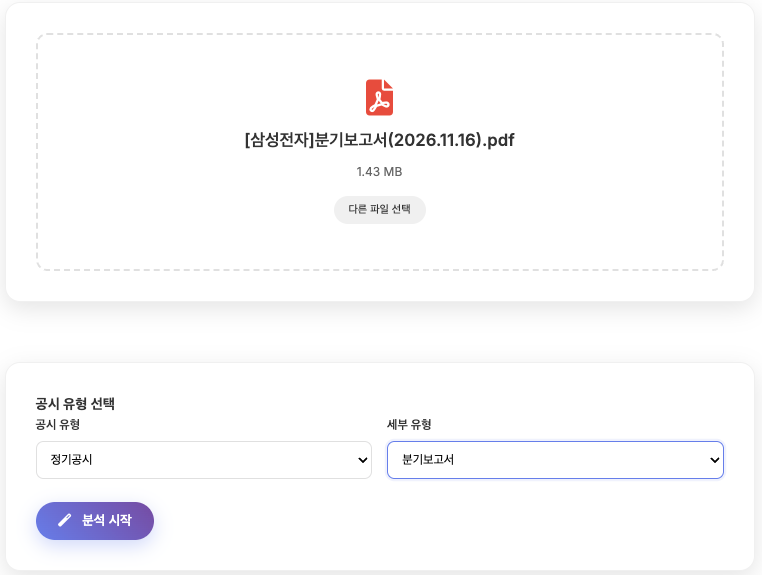
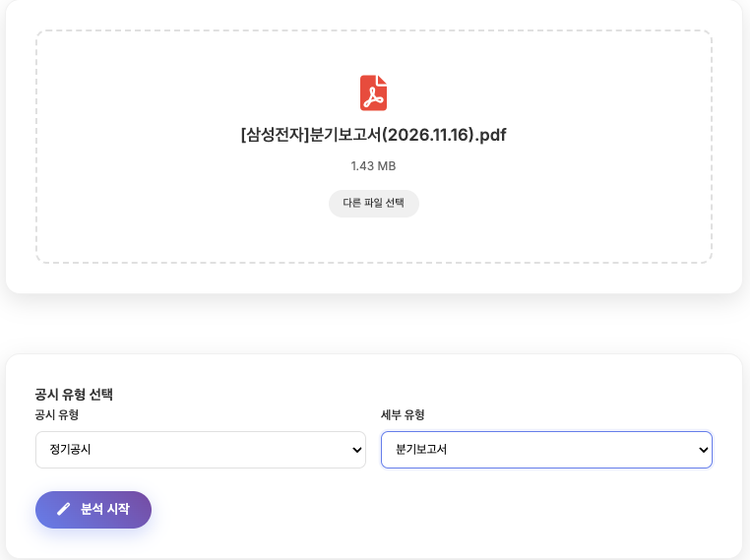
feat: 캐러셀 이미지 통일, 물음표 토글로 접기/펼치기, 모바일 첫 화면 한 번에 들어오게
- 캐러셀 이미지 3장을 750x560으로 동일하게 크롭 (각 장면에서 가장 중요한
  부분이 보이도록: 1번은 그대로, 2번은 로딩 카드가 보이게 아래쪽 기준,
  3번은 제목+표가 보이게 위쪽 기준)
- 캐러셀을 기본적으로 숨기고 "사용법 보기" 물음표 토글 버튼만 노출. 토글을
  누르면 펼쳐지면서 항상 첫 번째 이미지부터 보여주고, 다시 누르면 접힘
- 모바일 첫 화면(헤더+토글+업로드 카드+푸터)이 스크롤 없이 한 화면에 들어오도록
  .container의 강제 min-height(100vh) 제거하고 각 섹션 여백을 추가로 축소.
  iPhone SE(667px)/14(844px)/14 Pro Max(926px) 전부 스크롤 없이 들어맞는 것 확인
- 데스크톱, 분석 결과 화면, 사이드바는 영향 없음 (회귀 확인됨)

diff --git a/public/css/style.css b/public/css/style.css
@@ -695,7 +695,35 @@ body {
 @media (max-width: 768px) {
     .onboarding-carousel-section {
         display: block;
-        margin: 0 0 20px 0;
+        margin: 0 0 8px 0;
+        text-align: center;
+    }
+
+    .onboarding-help-toggle {
+        display: inline-flex;
+        align-items: center;
+        gap: 6px;
+        background: rgba(102, 126, 234, 0.08);
+        color: #667eea;
+        border: 1px solid rgba(102, 126, 234, 0.2);
+        border-radius: 20px;
+        padding: 6px 14px;
+        font-size: 0.8rem;
+        font-weight: 500;
+        cursor: pointer;
+    }
+
+    .onboarding-help-toggle.open {
+        background: rgba(102, 126, 234, 0.14);
+    }
+
+    .onboarding-carousel-wrap {
+        display: none;
+        margin-top: 10px;
+    }
+
+    .onboarding-carousel-wrap.open {
+        display: block;
     }
 
     .onboarding-carousel {
@@ -1879,6 +1907,11 @@ body {
    .footer 자체에도 margin-left: 40%; margin-right: 20%; 가 잘못 걸려 있어서
    모바일 화면에서 푸터 박스가 화면 폭의 40%로 좁아져 글자가 이상하게 끊겨 보였음) */
 @media (max-width: 768px) {
+    .footer {
+        margin-top: 16px;
+        padding: 16px 15px;
+    }
+
     .footer-content {
         gap: 12px;
     }
@@ -1984,14 +2017,14 @@ body {
 
     /* 모바일에서는 섹션 사이 여백을 줄여서 화면이 한눈에 들어오게 한다 */
     .main-header {
-        margin-bottom: 20px;
-        padding: 24px 0 12px 0;
+        margin-bottom: 10px;
+        padding: 16px 0 8px 0;
     }
 
     .header-badge {
         font-size: 0.75rem;
         padding: 5px 12px;
-        margin-bottom: 14px;
+        margin-bottom: 8px;
     }
 
     .main-content {
@@ -2031,12 +2064,12 @@ body {
     }
     
     .upload-card, .disclosure-card, .result-card, .loading-card {
-        padding: 20px 16px;
+        padding: 16px 16px;
     }
 
     /* 업로드 영역을 Claude 입력창처럼 작고 담백하게 */
     .upload-area {
-        padding: 22px 16px;
+        padding: 16px 16px;
         border-width: 2px;
     }
 
@@ -2996,8 +3029,9 @@ body {
         margin-left: 0; /* 모바일에서는 여백 없음 */
         max-width: 100vw;
         padding: 15px;
+        min-height: 0; /* 콘텐츠가 짧아도 화면 높이만큼 억지로 늘어나지 않게 (안 그러면 푸터가 화면 아래로 밀려나 스크롤이 생김) */
     }
-    
+
     .login-required-card {
         padding: 30px 20px;
     }

diff --git a/public/index.html b/public/index.html
@@ -77,23 +77,29 @@
             </div>
         </header>
 
-        <!-- 사용법 안내 캐러셀 (모바일 전용) -->
+        <!-- 사용법 안내 캐러셀 (모바일 전용, 기본은 접힘) -->
         <section class="onboarding-carousel-section" id="onboardingCarousel">
-            <div class="onboarding-carousel" id="onboardingTrack">
-                <div class="onboarding-slide">
-                    <img src="images/onboarding/step-1-upload.png" alt="1. PDF 업로드 및 공시 유형 선택">
+            <button class="onboarding-help-toggle" id="onboardingHelpToggle" type="button">
+                <i class="fas fa-question-circle"></i>
+                <span>사용법 보기</span>
+            </button>
+            <div class="onboarding-carousel-wrap" id="onboardingWrap">
+                <div class="onboarding-carousel" id="onboardingTrack">
+                    <div class="onboarding-slide">
+                        <img src="images/onboarding/step-1-upload.png" alt="1. PDF 업로드 및 공시 유형 선택">
+                    </div>
+                    <div class="onboarding-slide">
+                        <img src="images/onboarding/step-2-analyzing.png" alt="2. AI가 문서를 분석하는 중">
+                    </div>
+                    <div class="onboarding-slide">
+                        <img src="images/onboarding/step-3-result.png" alt="3. 분석 결과 확인">
+                    </div>
                 </div>
-                <div class="onboarding-slide">
-                    <img src="images/onboarding/step-2-analyzing.png" alt="2. AI가 문서를 분석하는 중">
+                <div class="onboarding-dots">
+                    <span class="onboarding-dot active" data-index="0"></span>
+                    <span class="onboarding-dot" data-index="1"></span>
+                    <span class="onboarding-dot" data-index="2"></span>
                 </div>
-                <div class="onboarding-slide">
-                    <img src="images/onboarding/step-3-result.png" alt="3. 분석 결과 확인">
-                </div>
-            </div>
-            <div class="onboarding-dots">
-                <span class="onboarding-dot active" data-index="0"></span>
-                <span class="onboarding-dot" data-index="1"></span>
-                <span class="onboarding-dot" data-index="2"></span>
             </div>
         </section>
 

diff --git a/public/js/app.js b/public/js/app.js
@@ -1541,6 +1541,21 @@ function initOnboardingCarousel() {
             });
         });
     });
+
+    // 물음표 토글: 기본은 숨김, 누르면 펼치면서 항상 첫 번째 이미지부터 보여준다
+    const toggleBtn = document.getElementById('onboardingHelpToggle');
+    const wrap = document.getElementById('onboardingWrap');
+    if (toggleBtn && wrap) {
+        toggleBtn.addEventListener('click', () => {
+            const isOpen = wrap.classList.toggle('open');
+            toggleBtn.classList.toggle('open', isOpen);
+
+            if (isOpen) {
+                track.scrollTo({ left: 0, behavior: 'instant' });
+                dots.forEach((dot, i) => dot.classList.toggle('active', i === 0));
+            }
+        });
+    }
 }
 
 // 분석 기록 로드
